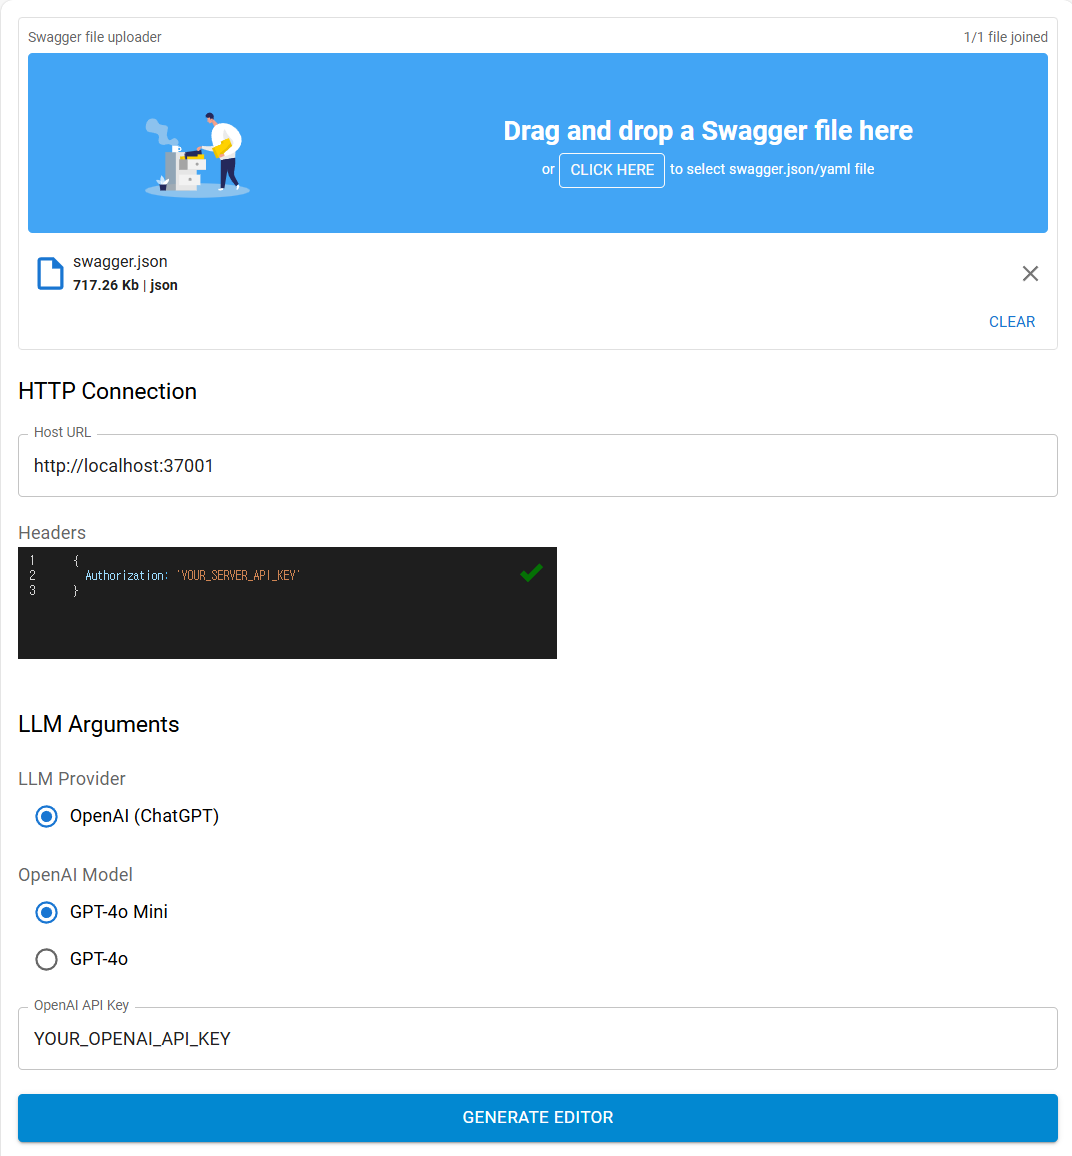
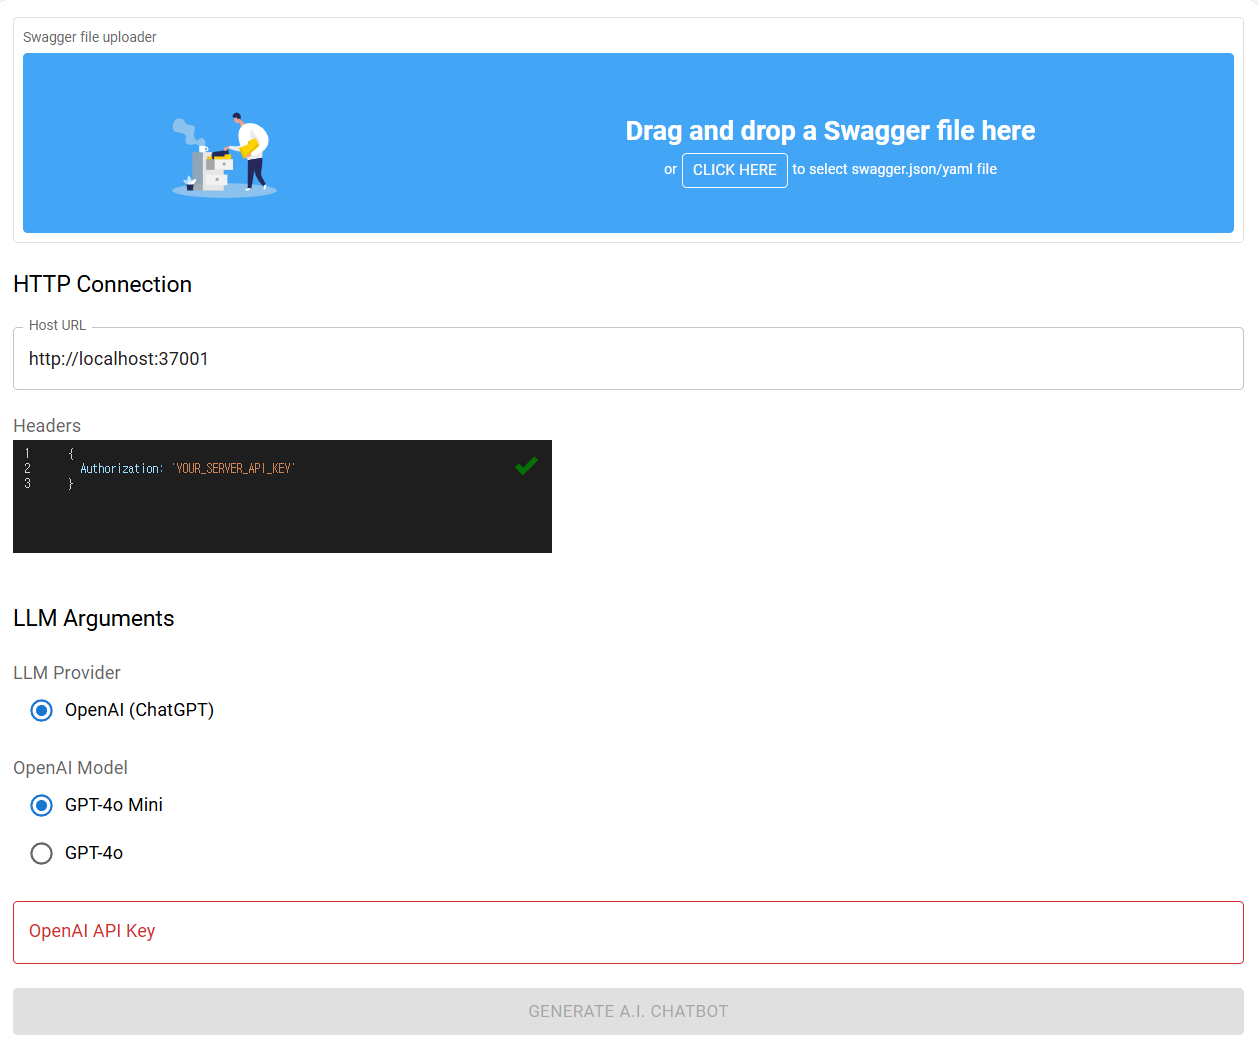
Fix `/chat/playground/` publishing.

diff --git a/packages/chat/vite.config.ts b/packages/chat/vite.config.ts
@@ -14,8 +14,12 @@ export default defineConfig({
     rollupOptions: {
       input: {
         index: path.resolve(__dirname, "index.html"),
-        "bbs/index": path.resolve(__dirname, "bbs/index.html"),
+        "playground/index.html": path.resolve(
+          __dirname,
+          "playground/index.html",
+        ),
         "shopping/index.html": path.resolve(__dirname, "shopping/index.html"),
+        "bbs/index": path.resolve(__dirname, "bbs/index.html"),
       },
     },
   },
